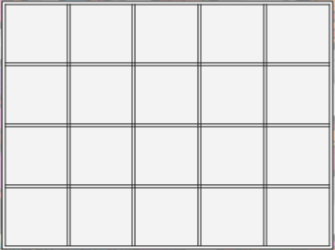
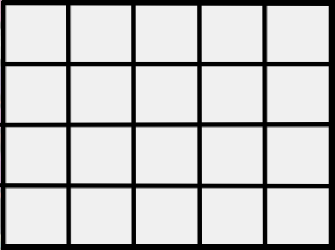
added dynamic creation of schema from json

Changed region(s): [[0.0, 0.0, 1.0, 1.0]]

diff --git a/src/main/java/it/polimi/ingsw/client/view/ControllerClient.java b/src/main/java/it/polimi/ingsw/client/view/ControllerClient.java
@@ -39,6 +39,7 @@ public class ControllerClient implements View {
     public ViewGUI gui;
     public Handler hand;
     public Schema mySchema;
+    public List<Schema> schemas;
 
 
 
@@ -52,7 +53,20 @@ public class ControllerClient implements View {
     public ImageView drop;
 
     Object lock = new Object();
+
     private List<String> schemasClient;
+
+
+    @FXML
+    GridPane schema2;
+
+    @FXML
+    GridPane schema3;
+
+    @FXML
+    GridPane schema4;
+
+
 
 
 
@@ -129,14 +143,6 @@ public class ControllerClient implements View {
     @FXML
     public ImageView schema1;
 
-    @FXML
-    public ImageView schema2;
-
-    @FXML
-    public ImageView schema3;
-
-    @FXML
-    public ImageView schema4;
 
     @FXML
     public ImageView privateCard;
@@ -529,10 +535,16 @@ public class ControllerClient implements View {
 
     Platform.runLater(new Runnable() {
         public void run() {
-            String path = "/assets/image/Schemi/SchemiRemake/";
-            Image image = new Image(path + name + ".png");
-            schema1.setImage(image);
+
             Schema schema = new Schema();
+
+            try {
+                printSchema(gridPane, name);
+            } catch (IOException e) {
+                e.printStackTrace();
+            }
+
+
             try {
                 schema = schema.InitSchema("SchemaClient/"+name);
             } catch (IOException e) {
@@ -560,6 +572,8 @@ public class ControllerClient implements View {
             List<String> stringList = new ArrayList<String>(schemas);
 
             public void run() {
+
+
                 String path = "/assets/image/Schemi/SchemiRemake/";
 
                 List<Object> schemaImages = new ArrayList<Object>();
@@ -578,8 +592,11 @@ public class ControllerClient implements View {
 
                 for(int i = 0; i< stringList.size(); i = i+2){
                         ((Text)(schemaImages.get(i))).setText(stringList.get(i));
-                        Image image = new Image(path + stringList.get(i+1) +  ".png");
-                        ((ImageView)schemaImages.get(i+1)).setImage(image);
+                    try {
+                        printSchema((GridPane) schemaImages.get(i+1), stringList.get(i+1));
+                    } catch (IOException e) {
+                        e.printStackTrace();
+                    }
                 }
 
 
@@ -828,8 +845,74 @@ public class ControllerClient implements View {
 
                 }
 
+    }
 
+    public void printSchema(GridPane gridPane, String nameSchema) throws IOException {
+
+
+        Schema schema = new Schema();
+        schema = schema.InitSchema("SchemaClient/"+nameSchema);
+
+        int count = 0;
+
+        for(int i = 0; i < 4; i++ ){
+            for(int j = 0; j < 5; j++){
+                ImageView imageView = (ImageView)gridPane.getChildren().get(count);
+                String constrain = schema.getGrid()[i][j].getCostraint();
+                if(!schema.getGrid()[i][j].getCostraint().equals(""))
+                    putConstrain(imageView, constrain);
+                count++;
+                }
+            }
+        }
+
+
+
+
+    public void putConstrain(final ImageView imageView, final String constrain){
+
+        Platform.runLater(new Runnable() {
+            public void run() {
+
+
+                    String path = "/assets/image/SchemaElement/";
+                    if (constrain.equals("\u001b[32m"))
+                        imageView.setImage(new Image(path + "green.png"));
+                    else if (constrain.equals("\u001b[31m"))
+                        imageView.setImage(new Image(path + "red.png"));
+                    else if (constrain.equals("\u001b[33m"))
+                        imageView.setImage(new Image(path + "yellow.png"));
+
+                    else if (constrain.equals("\u001b[34m"))
+                        imageView.setImage(new Image(path + "blue.png"));
+
+                    else if (constrain.equals("\u001b[35m"))
+                        imageView.setImage(new Image(path + "purple.png"));
+
+                    else if (constrain.equals("1"))
+                        imageView.setImage(new Image(path + "1.png"));
+
+                    else if (constrain.equals("2"))
+                        imageView.setImage(new Image(path + "2.png"));
+
+                    else if (constrain.equals("3"))
+                        imageView.setImage(new Image(path + "3.png"));
+
+                    else if (constrain.equals("4"))
+                        imageView.setImage(new Image(path + "4.png"));
+
+                    else if (constrain.equals("5"))
+                        imageView.setImage(new Image(path + "5.png"));
+
+                    else if (constrain.equals("6"))
+                        imageView.setImage(new Image(path + "6.png"));
+
+            }
+        });
 
 
     }
+
+
+
 }
